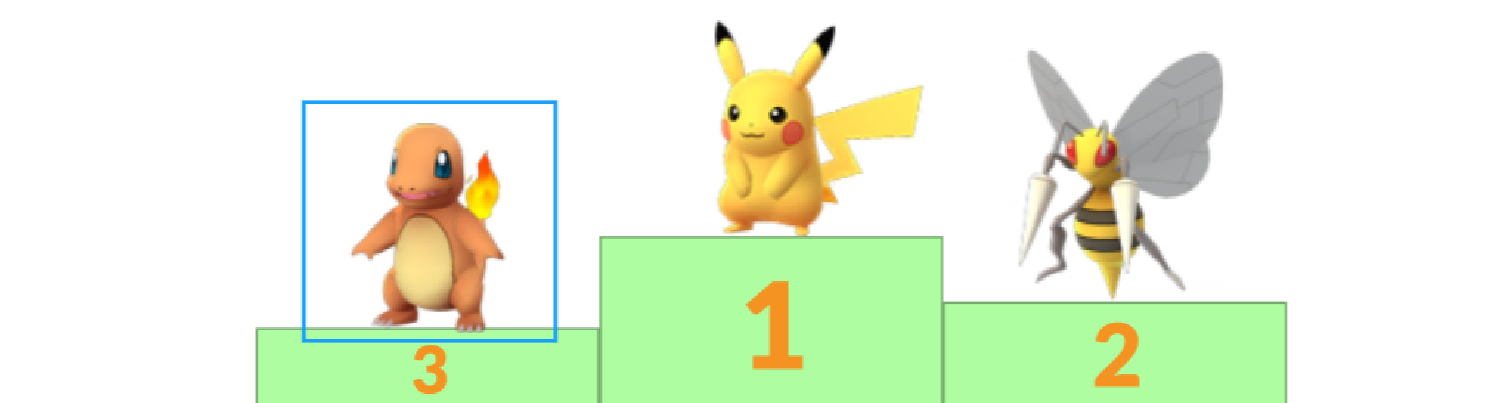
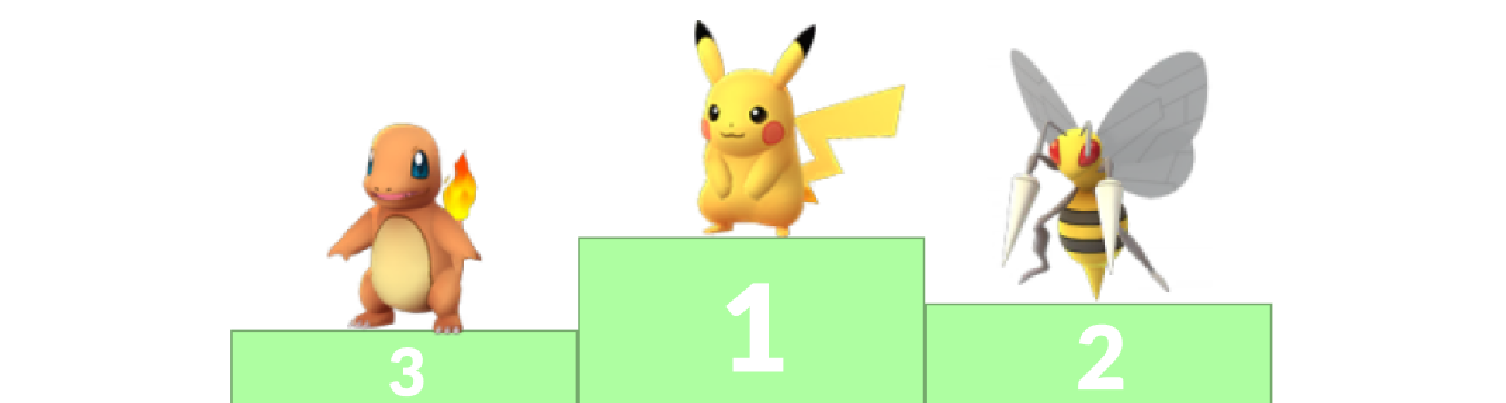
Mejoras de CSS y corriendo filtrado y orden

Changed region(s): [[0.1248, 0.0596, 0.8738, 1.0], [0.4681, 0.6849, 0.5305, 0.9231], [0.7178, 0.804, 0.7802, 0.9826]]

diff --git a/src/index.html b/src/index.html
@@ -31,7 +31,7 @@
 
     <div id="pokemonImageUp" class="pokeImageDiv">
       <img id=pokePic1 class="pokeImageStyle" src="images/allPokemons2.png" alt="allPokemons">
-      <button id="elegirPokeBtn" class="pokeElegir">¡Descubre los pokémon de Kanto!</button>
+      <button id="elegirPokeBtn" class="pokeElegir">¡Descubre acá los pokémon de Kanto!</button>
       <img id=pokePic2 class="pokeImageStyle" src="images/evolucion.png" alt="evolucion">
       <button id="elegirPokeBtn2" class="pokeElegir">¡Conoce las evoluciones!</button>
       <img id=pokePic3 class="pokeImageStyle" src="images/ranking.png" alt="ranking">

diff --git a/src/data.js b/src/data.js
@@ -5,7 +5,7 @@ export const pokemonByType = (POKEMON, types) => {
 
 // Ordenar por NOMBRE y NÚMERO
 export const pokemonByName = (POKEMON, sortBy, sortOrder) => {
-   compare = POKEMON.sort((a,b) => {
+   const compare = POKEMON.sort((a,b) => {
     return a[sortBy].localeCompare(b[sortBy]);
   });
 

diff --git a/src/main.js b/src/main.js
@@ -67,7 +67,7 @@ function showSelect2 (){
   }
 };
 
-// Ordenar por NOMBRE
+// Ordenar por NÚMERO
 const pokeNumbers = document.getElementById ('select3');
 pokeNumbers.addEventListener ('change', showSelect3);
 function showSelect3 (){
